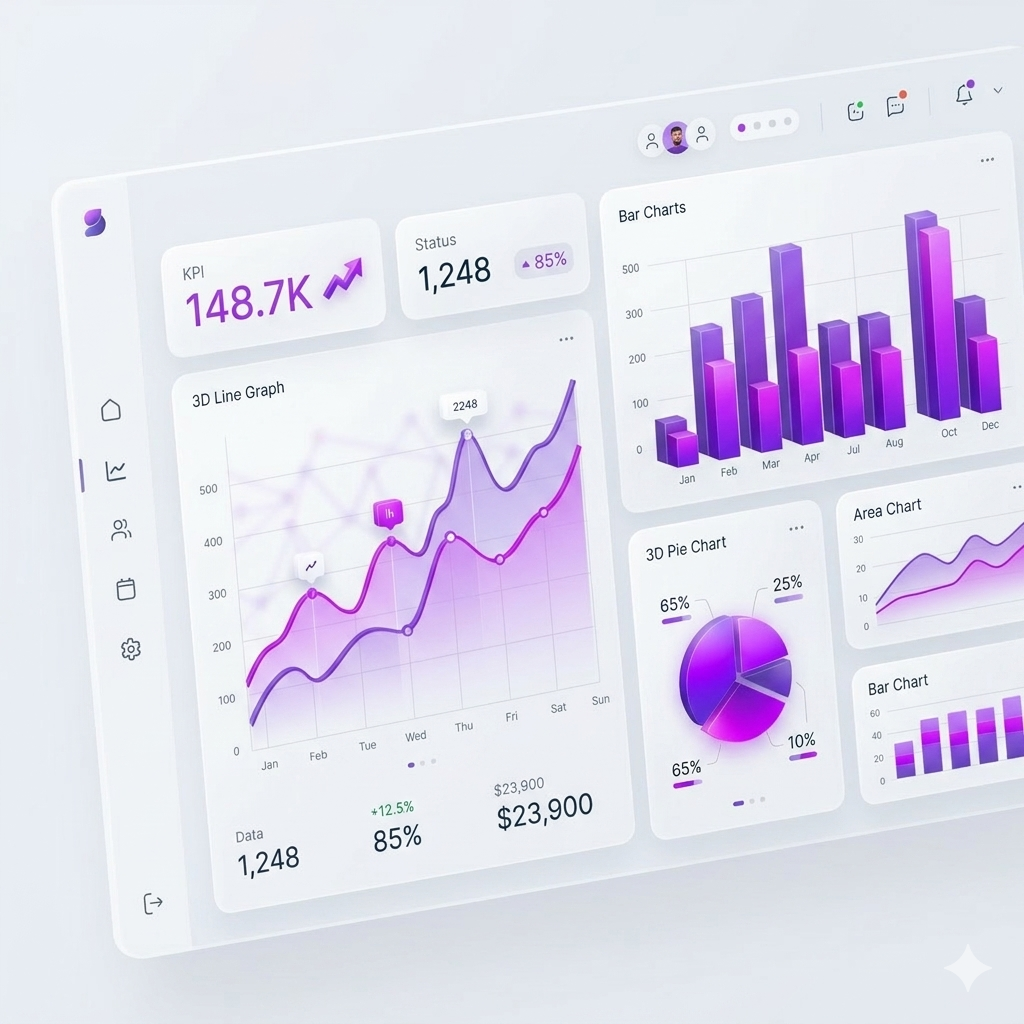
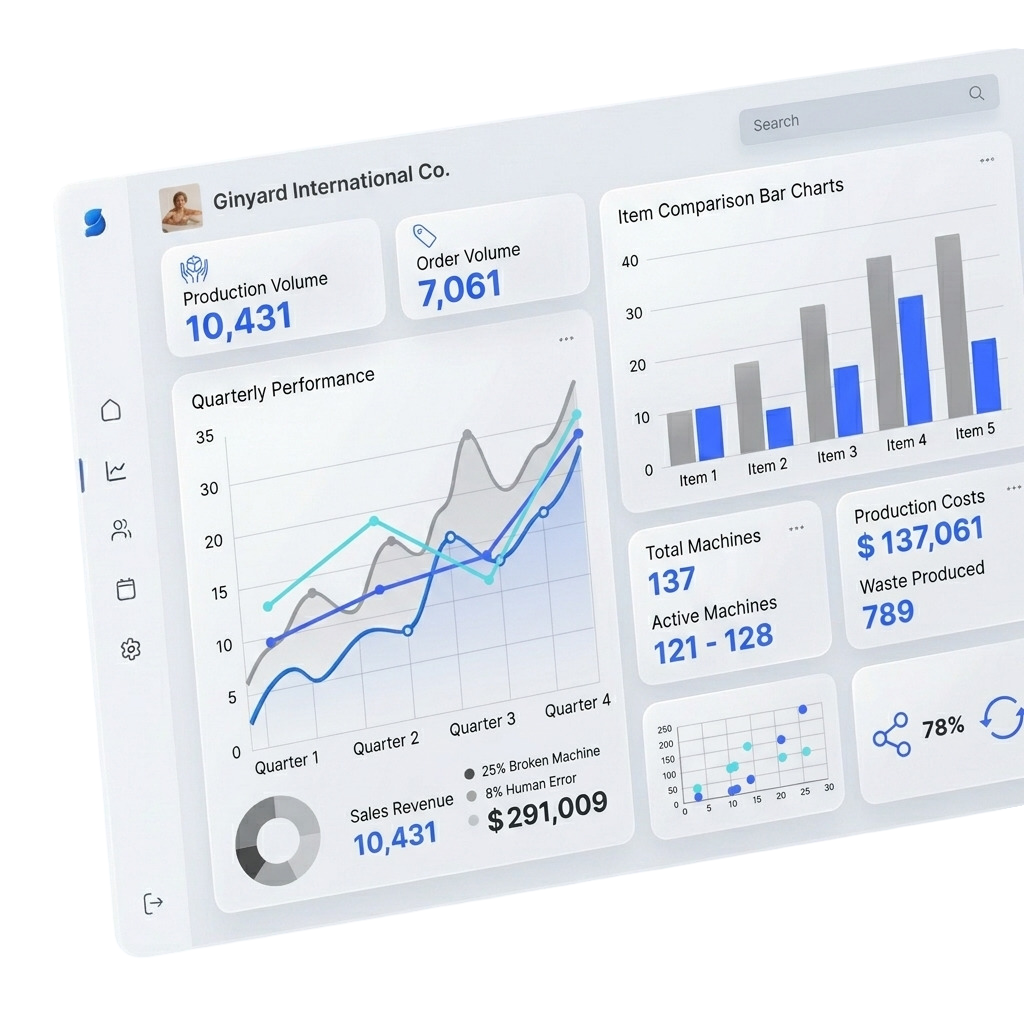
feat: update landing page UI with pulsing status badges and refined typography across sections

diff --git a/components/landing/how-it-works.tsx b/components/landing/how-it-works.tsx
@@ -41,10 +41,10 @@ export function HowItWorks() {
 
   return (
     <section id="cara-kerja" className="relative py-24 lg:py-32 bg-muted/30 overflow-hidden">
-      
+
       {/* Desktop Image — Strategic/Collaboration vibe with premium Floating Frame */}
       <div className="absolute inset-y-0 left-0 w-[50%] hidden lg:flex items-center justify-center overflow-hidden pointer-events-none p-12 pl-0">
-        <motion.div 
+        <motion.div
           className="relative w-full h-[600px] xl:h-[750px] max-h-[85%] rounded-r-[48px] overflow-hidden shadow-[0_32px_80px_-15px_rgba(0,0,0,0.3)] border-y border-r border-white/20 will-change-transform bg-muted/40"
           initial={{ opacity: 0, x: -100 }}
           whileInView={{ opacity: 1, x: 0 }}
@@ -52,14 +52,14 @@ export function HowItWorks() {
           transition={{ duration: 1.2, ease: [0.16, 1, 0.3, 1] }}
         >
           <Image
-            src="https://images.unsplash.com/photo-1551434678-e076c223a692?q=80&w=2000" 
+            src="https://images.unsplash.com/photo-1551434678-e076c223a692?q=80&w=2000"
             alt="Strategic Planning Bisnis Rapi"
             fill
             className="object-cover object-left grayscale-[0.2] transition-transform duration-1000 group-hover:scale-110"
           />
           {/* Seamless Edge Masking */}
           <div className="absolute inset-0 bg-gradient-to-l from-muted/50 via-transparent to-transparent pointer-events-none" />
-          
+
           {/* subtle decorative glass glow */}
           <div className="absolute top-0 left-0 w-48 h-full bg-white/5 blur-3xl pointer-events-none" />
         </motion.div>
@@ -67,13 +67,13 @@ export function HowItWorks() {
 
       <div className="relative max-w-[1440px] 2xl:max-w-[1600px] mx-auto px-4 sm:px-6 lg:px-12 xl:px-16">
         <div className="grid lg:grid-cols-2 gap-16 lg:gap-24 items-start" ref={ref}>
-          
+
           {/* Left - Spacer for image display on desktop */}
           <div className="hidden lg:block h-full w-full" />
 
           {/* Right - Content */}
           <div className="lg:pl-8 xl:pl-16">
-            <motion.div 
+            <motion.div
               className="mb-16"
               initial={{ opacity: 0, x: 40 }}
               whileInView={{ opacity: 1, x: 0 }}
@@ -85,20 +85,20 @@ export function HowItWorks() {
                   <span className="animate-ping absolute inline-flex h-full w-full rounded-full bg-brand-start opacity-75"></span>
                   <span className="relative inline-flex rounded-full h-2 w-2 bg-brand-start"></span>
                 </span>
-                <span className="text-[11px] font-bold uppercase tracking-[0.2em]" style={{ 
+                <span className="text-[11px] font-bold uppercase tracking-[0.2em]" style={{
                   background: 'linear-gradient(to right, #59f6e3, #185cf8)',
                   WebkitBackgroundClip: 'text',
                   WebkitTextFillColor: 'transparent',
                 }}>
-                  Workflow
+                  Cara Kerja
                 </span>
               </div>
               <h2 className="text-3xl sm:text-4xl lg:text-5xl font-bold text-foreground leading-[1.2] tracking-tight">
-                Kami <span style={{ 
-                    background: 'linear-gradient(to right, #59f6e3, #185cf8)',
-                    WebkitBackgroundClip: 'text',
-                    WebkitTextFillColor: 'transparent',
-                  }}>Rapikan</span> Sistemnya,<br /> Anda Jalankan Bisnisnya
+                Kami <span style={{
+                  background: 'linear-gradient(to right, #59f6e3, #185cf8)',
+                  WebkitBackgroundClip: 'text',
+                  WebkitTextFillColor: 'transparent',
+                }}>Rapikan</span> Sistemnya,<br /> Anda Jalankan Bisnisnya
               </h2>
               <p className="mt-5 text-base text-muted-foreground leading-relaxed font-medium">
                 Tidak perlu paham teknis — kami yang urus semuanya.
@@ -108,7 +108,7 @@ export function HowItWorks() {
             {/* Timeline Steps */}
             <div className="relative space-y-12">
               {/* Vertical Connector Line */}
-              <motion.div 
+              <motion.div
                 className="absolute left-[31px] top-8 bottom-8 w-[2px] bg-gradient-to-b from-brand-start to-brand-end/20"
                 initial={{ scaleY: 0 }}
                 animate={isInView ? { scaleY: 1 } : {}}
@@ -120,8 +120,8 @@ export function HowItWorks() {
                 <motion.div
                   key={index}
                   initial={{ opacity: 0, x: 40 }}
-                   animate={isInView ? { opacity: 1, x: 0 } : { opacity: 0, x: 40 }}
-                   transition={{ ...smoothSpring, delay: 0.1 + index * 0.1 }}
+                  animate={isInView ? { opacity: 1, x: 0 } : { opacity: 0, x: 40 }}
+                  transition={{ ...smoothSpring, delay: 0.1 + index * 0.1 }}
                   whileHover={{ x: 8 }}
                   className="flex items-start gap-8 relative z-10 group"
                 >
@@ -145,12 +145,12 @@ export function HowItWorks() {
           </div>
 
           {/* Mobile Image (Visible only on mobile) */}
-          <motion.div 
+          <motion.div
             className="lg:hidden mt-8 rounded-3xl overflow-hidden shadow-2xl border border-border aspect-video relative"
-             initial={{ opacity: 0, scale: 0.95 }}
-             whileInView={{ opacity: 1, scale: 1 }}
-             viewport={{ once: false }}
-           >
+            initial={{ opacity: 0, scale: 0.95 }}
+            whileInView={{ opacity: 1, scale: 1 }}
+            viewport={{ once: false }}
+          >
             <Image
               src="https://images.unsplash.com/photo-1551434678-e076c223a692?q=80&w=1200"
               alt="Strategic Planning"

diff --git a/components/landing/faq-section.tsx b/components/landing/faq-section.tsx
@@ -91,13 +91,19 @@ export function FAQSection() {
             transition={{ ...smoothSpring }}
           >
             <div className="sticky top-32">
-              <p className="text-xs font-bold uppercase tracking-[0.2em] mb-4" style={{
-                background: 'linear-gradient(to right, #59f6e3, #185cf8)',
-                WebkitBackgroundClip: 'text',
-                WebkitTextFillColor: 'transparent',
-              }}>
-                Pertanyaan Umum
-              </p>
+              <div className="inline-flex items-center gap-3 px-4 py-2 rounded-full bg-brand-start/5 border border-brand-start/10 backdrop-blur-sm mb-6 shadow-sm">
+                <span className="relative flex h-2 w-2">
+                  <span className="animate-ping absolute inline-flex h-full w-full rounded-full bg-brand-start opacity-75"></span>
+                  <span className="relative inline-flex rounded-full h-2 w-2 bg-brand-start"></span>
+                </span>
+                <span className="text-[11px] font-bold uppercase tracking-[0.2em]" style={{
+                  background: 'linear-gradient(to right, #59f6e3, #185cf8)',
+                  WebkitBackgroundClip: 'text',
+                  WebkitTextFillColor: 'transparent',
+                }}>
+                  Pertanyaan Umum
+                </span>
+              </div>
               <h2 className="text-4xl font-bold text-foreground leading-[1.1] tracking-tight mb-6">
                 Pertanyaan yang Sering Diajukan
               </h2>
@@ -188,29 +194,29 @@ export function FAQSection() {
         >
           <div className="relative p-8 sm:p-16 lg:p-24 rounded-[3.5rem] bg-slate-50/50 dark:bg-slate-900/50 border border-slate-200/60 dark:border-slate-800/60 backdrop-blur-md text-center overflow-hidden">
             {/* Animated Glows */}
-            <motion.div 
-              animate={{ 
+            <motion.div
+              animate={{
                 scale: [1, 1.2, 1],
                 opacity: [0.3, 0.5, 0.3],
                 x: [0, 20, 0],
                 y: [0, -20, 0]
               }}
               transition={{ duration: 8, repeat: Infinity, ease: "easeInOut" }}
-              className="absolute -top-24 -left-24 w-96 h-96 bg-brand-start/20 rounded-full blur-[100px] pointer-events-none" 
+              className="absolute -top-24 -left-24 w-96 h-96 bg-brand-start/20 rounded-full blur-[100px] pointer-events-none"
             />
-            <motion.div 
-              animate={{ 
+            <motion.div
+              animate={{
                 scale: [1, 1.3, 1],
                 opacity: [0.2, 0.4, 0.2],
                 x: [0, -30, 0],
                 y: [0, 30, 0]
               }}
               transition={{ duration: 10, repeat: Infinity, ease: "easeInOut", delay: 2 }}
-              className="absolute -bottom-32 -right-32 w-[30rem] h-[30rem] bg-brand-end/20 rounded-full blur-[120px] pointer-events-none" 
+              className="absolute -bottom-32 -right-32 w-[30rem] h-[30rem] bg-brand-end/20 rounded-full blur-[120px] pointer-events-none"
             />
 
             <div className="relative z-10">
-              <motion.h3 
+              <motion.h3
                 className="text-3xl sm:text-4xl lg:text-[3.25rem] font-bold text-slate-900 dark:text-white leading-[1.1] mb-6 tracking-tight"
                 initial={{ opacity: 0, y: 20 }}
                 animate={isCtaInView ? { opacity: 1, y: 0 } : { opacity: 0, y: 20 }}
@@ -218,8 +224,8 @@ export function FAQSection() {
               >
                 Masih ada pertanyaan yang <br className="hidden sm:block" /> belum terjawab?
               </motion.h3>
-              
-              <motion.p 
+
+              <motion.p
                 className="text-lg sm:text-xl text-slate-600 dark:text-slate-400 mb-12 max-w-2xl mx-auto leading-relaxed"
                 initial={{ opacity: 0, y: 20 }}
                 animate={isCtaInView ? { opacity: 1, y: 0 } : { opacity: 0, y: 20 }}

diff --git a/components/landing/features-section.tsx b/components/landing/features-section.tsx
@@ -31,13 +31,26 @@ export function FeaturesSection() {
           viewport={{ once: false }}
           transition={{ ...smoothSpring }}
         >
-          <p className="text-[10px] font-bold uppercase tracking-[0.2em] mb-4" style={{
+          {/* <p className="text-[10px] font-bold uppercase tracking-[0.2em] mb-4" style={{
             background: 'linear-gradient(to right, #59f6e3, #185cf8)',
             WebkitBackgroundClip: 'text',
             WebkitTextFillColor: 'transparent',
           }}>
-            Capabilities
-          </p>
+            Keunggulan
+          </p> */}
+          <div className="inline-flex items-center gap-3 px-4 py-2 rounded-full bg-brand-start/5 border border-brand-start/10 backdrop-blur-sm mb-6 shadow-sm">
+            <span className="relative flex h-2 w-2">
+              <span className="animate-ping absolute inline-flex h-full w-full rounded-full bg-brand-start opacity-75"></span>
+              <span className="relative inline-flex rounded-full h-2 w-2 bg-brand-start"></span>
+            </span>
+            <span className="text-[11px] font-bold uppercase tracking-[0.2em]" style={{
+              background: 'linear-gradient(to right, #59f6e3, #185cf8)',
+              WebkitBackgroundClip: 'text',
+              WebkitTextFillColor: 'transparent',
+            }}>
+              Keunggulan
+            </span>
+          </div>
           <h2 className="text-3xl sm:text-4xl lg:text-5xl font-bold text-foreground leading-[1.2] tracking-tight">
             Kenapa Harus Punya <span style={{
               background: 'linear-gradient(to right, #59f6e3, #185cf8)',

diff --git a/components/landing/why-us-section.tsx b/components/landing/why-us-section.tsx
@@ -55,13 +55,19 @@ export function WhyUsSection() {
             animate={isInView ? { opacity: 1, x: 0 } : {}}
             transition={{ ...smoothSpring }}
           >
-            <p className="text-sm font-bold uppercase tracking-[0.2em] mb-4" style={{ 
-              background: 'linear-gradient(to right, #59f6e3, #185cf8)',
-              WebkitBackgroundClip: 'text',
-              WebkitTextFillColor: 'transparent',
-            }}>
-              Mengapa BisnisRapi
-            </p>
+            <div className="inline-flex items-center gap-3 px-4 py-2 rounded-full bg-brand-start/5 border border-brand-start/10 backdrop-blur-sm mb-6 shadow-sm">
+              <span className="relative flex h-2 w-2">
+                <span className="animate-ping absolute inline-flex h-full w-full rounded-full bg-brand-start opacity-75"></span>
+                <span className="relative inline-flex rounded-full h-2 w-2 bg-brand-start"></span>
+              </span>
+              <span className="text-[11px] font-bold uppercase tracking-[0.2em]" style={{
+                background: 'linear-gradient(to right, #59f6e3, #185cf8)',
+                WebkitBackgroundClip: 'text',
+                WebkitTextFillColor: 'transparent',
+              }}>
+                Mengapa BisnisRapi
+              </span>
+            </div>
             <h2 className="text-3xl sm:text-4xl lg:text-5xl font-bold text-foreground leading-tight text-balance">
               Kenapa BisnisRapi Berbeda?
             </h2>

diff --git a/components/landing/hero.tsx b/components/landing/hero.tsx
@@ -133,20 +133,9 @@ export function Hero() {
               transition={{ ...springTransition, delay: 0.3 }}
               className="mt-6 text-xl text-muted-foreground/80 max-w-xl mx-auto lg:mx-0 leading-relaxed font-medium"
             >
-              Kami membantu digitalisasi bisnis Anda — mulai dari sistem manajemen internal yang rapi, pembuatan website profesional, hingga sistem e-commerce mandiri. Fokuslah membesarkan bisnis, biar kami yang urus teknisnya.
+              Kami membantu digitalisasi bisnis Anda mulai dari sistem manajemen internal yang rapi, pembuatan website profesional, hingga sistem e-commerce mandiri. Fokuslah membesarkan bisnis, biar kami yang urus teknisnya.
             </motion.p>
 
-            {/* <motion.div
-              initial={{ opacity: 0, y: 20 }}
-              animate={{ opacity: 1, y: 0 }}
-              transition={{ ...springTransition, delay: 0.35 }}
-              className="mt-6 inline-flex items-center gap-2 px-4 py-2 rounded-xl bg-accent/10 border border-accent/20"
-            >
-              <span className="text-sm font-semibold text-accent-foreground flex items-center gap-2 italic">
-                <span className="flex h-2 w-2 rounded-full bg-accent animate-pulse" />
-                Mulai dari 299rb — bisa request fitur sesuai kebutuhan bisnis Anda
-              </span>
-            </motion.div> */}
 
             <motion.div
               initial={{ opacity: 0, y: 40 }}

diff --git a/components/landing/cta-section.tsx b/components/landing/cta-section.tsx
@@ -79,13 +79,19 @@ export function CTASection() {
               viewport={{ once: false }}
               transition={{ ...smoothSpring }}
             >
-              <p className="text-xs font-bold uppercase tracking-[0.2em]" style={{
-                background: 'linear-gradient(to right, #59f6e3, #185cf8)',
-                WebkitBackgroundClip: 'text',
-                WebkitTextFillColor: 'transparent',
-              }}>
-                Langkah Berikutnya
-              </p>
+              <div className="inline-flex items-center gap-3 px-4 py-2 rounded-full bg-brand-start/5 border border-brand-start/10 backdrop-blur-sm mb-6 shadow-sm">
+                <span className="relative flex h-2 w-2">
+                  <span className="animate-ping absolute inline-flex h-full w-full rounded-full bg-brand-start opacity-75"></span>
+                  <span className="relative inline-flex rounded-full h-2 w-2 bg-brand-start"></span>
+                </span>
+                <span className="text-[11px] font-bold uppercase tracking-[0.2em]" style={{
+                  background: 'linear-gradient(to right, #59f6e3, #185cf8)',
+                  WebkitBackgroundClip: 'text',
+                  WebkitTextFillColor: 'transparent',
+                }}>
+                  Langkah Berikutnya
+                </span>
+              </div>
             </motion.div>
 
             <motion.h2

diff --git a/components/landing/services-section.tsx b/components/landing/services-section.tsx
@@ -42,7 +42,7 @@ export function ServicesSection() {
     <section id="layanan" className="py-24 lg:py-32 bg-background relative overflow-hidden">
       {/* Background decoration */}
       <div className="absolute top-0 right-0 w-[500px] h-[500px] bg-brand-start/5 rounded-full blur-[120px] -mr-64 -mt-64 opacity-50" />
-      
+
       <div className="max-w-7xl mx-auto px-4 sm:px-6 lg:px-8 relative z-10">
         <motion.div
           className="text-center max-w-3xl mx-auto mb-20"
@@ -61,10 +61,10 @@ export function ServicesSection() {
               WebkitBackgroundClip: 'text',
               WebkitTextFillColor: 'transparent',
             }}>
-              Our Services
+              Layanan Kami
             </span>
           </div>
-          
+
           <h2 className="text-3xl sm:text-4xl lg:text-5xl font-bold text-foreground leading-[1.2] tracking-tight">
             Layanan Digital Untuk <span style={{
               background: 'linear-gradient(to right, #59f6e3, #185cf8)',
@@ -97,7 +97,7 @@ export function ServicesSection() {
               <h3 className="text-xl font-bold text-foreground mb-4 tracking-tight relative z-10">
                 {service.title}
               </h3>
-              
+
               <p className="text-sm text-muted-foreground leading-relaxed mb-8 font-medium relative z-10">
                 {service.description}
               </p>
